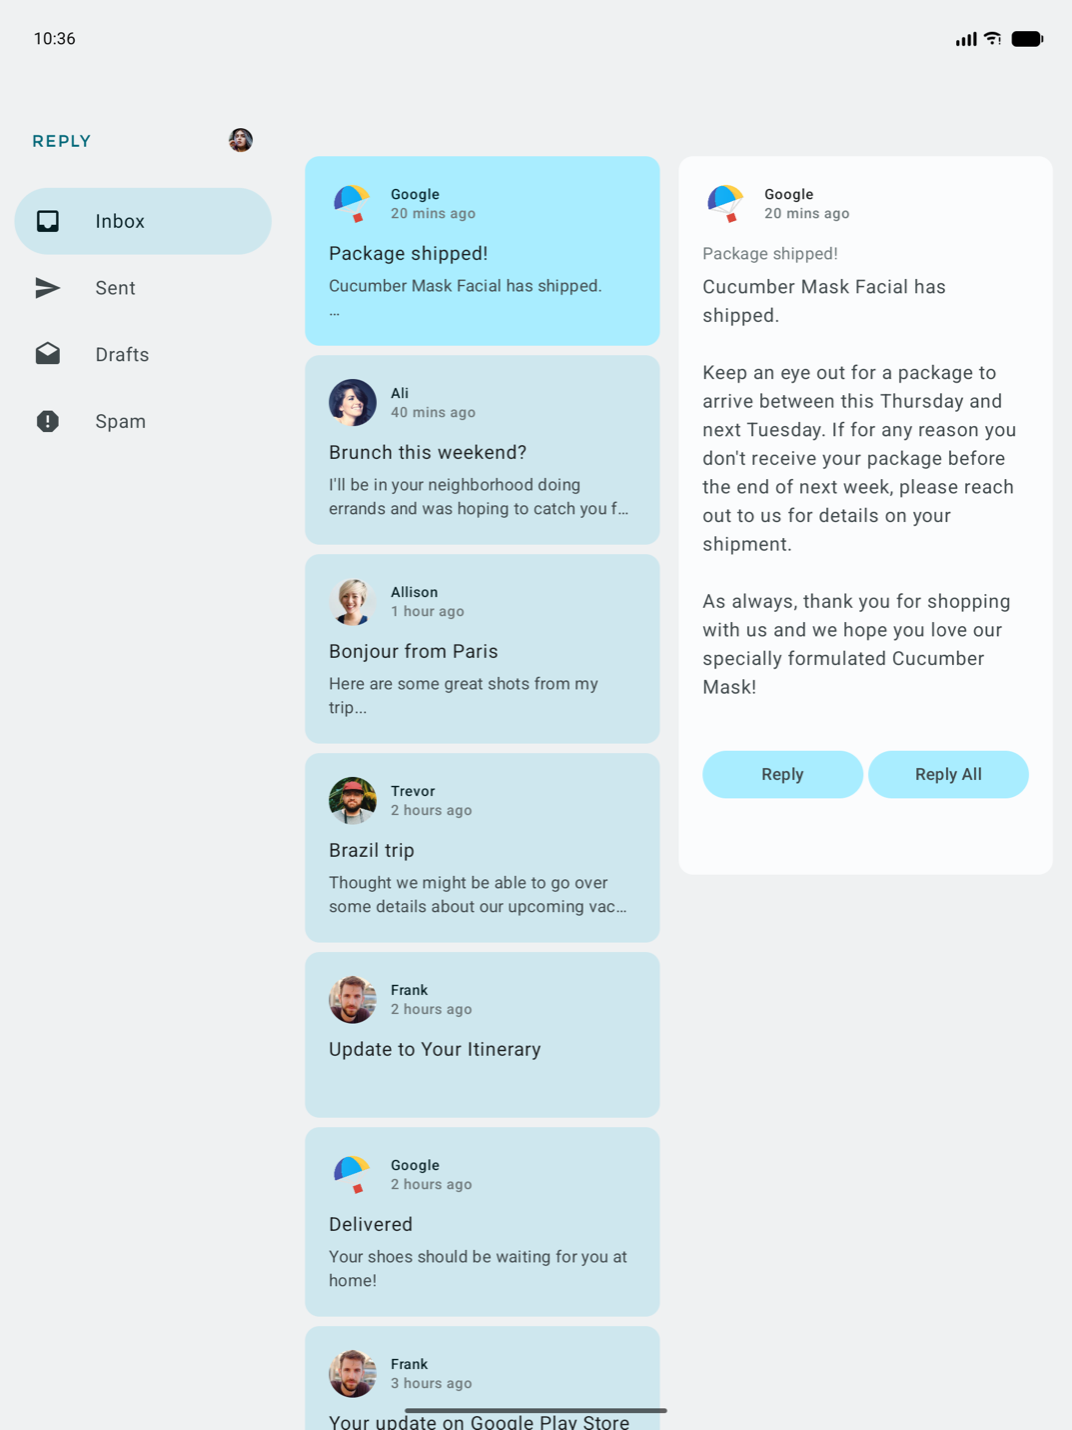
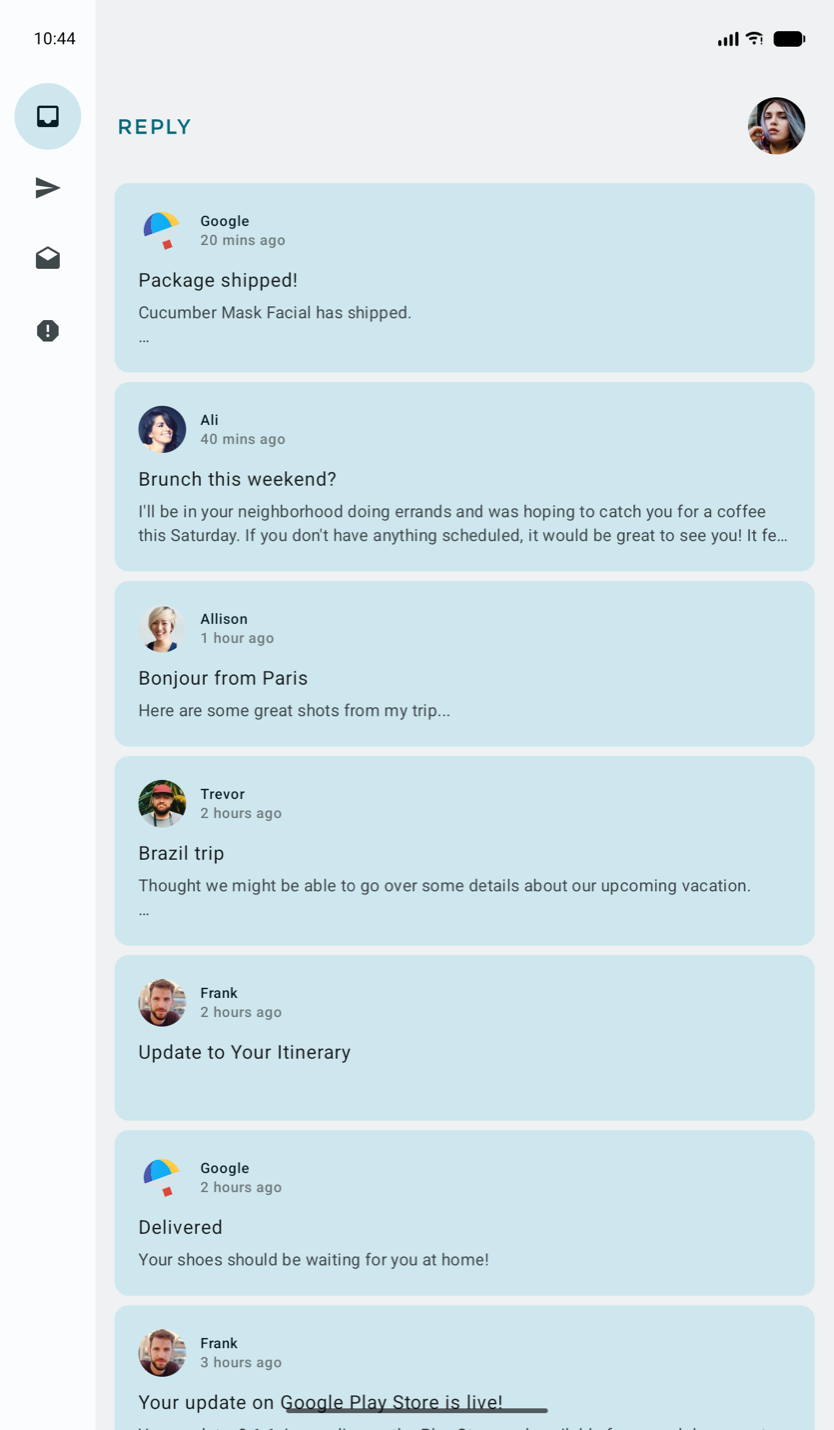
unit 4 pw3 project My City: 8. Test the app with Resizable Emulator (tests, previews, report)

diff --git a/app/src/androidTest/java/com/example/knrtu_mobile_systems/MyCityAppTest.kt b/app/src/androidTest/java/com/example/knrtu_mobile_systems/MyCityAppTest.kt
@@ -1,0 +1,108 @@
+package com.example.knrtu_mobile_systems
+
+import androidx.activity.ComponentActivity
+import androidx.annotation.StringRes
+import androidx.compose.material3.windowsizeclass.WindowWidthSizeClass
+import androidx.compose.ui.platform.LocalContext
+import androidx.compose.ui.test.assertIsDisplayed
+import androidx.compose.ui.test.junit4.createAndroidComposeRule
+import androidx.compose.ui.test.onNodeWithContentDescription
+import androidx.compose.ui.test.onNodeWithTag
+import androidx.compose.ui.test.onNodeWithText
+import androidx.compose.ui.test.performClick
+import androidx.navigation.compose.ComposeNavigator
+import androidx.navigation.testing.TestNavHostController
+import com.example.knrtu_mobile_systems.data.LocalPlacesDataProvider
+import com.example.knrtu_mobile_systems.model.Category
+import com.example.knrtu_mobile_systems.ui.MyCityApp
+import com.example.knrtu_mobile_systems.ui.MyCityScreen
+import org.junit.Assert.assertEquals
+import org.junit.Rule
+import org.junit.Test
+
+class MyCityAppTest {
+
+    @get:Rule
+    val composeTestRule = createAndroidComposeRule<ComponentActivity>()
+
+    private lateinit var navController: TestNavHostController
+
+    private fun setContent(windowSize: WindowWidthSizeClass) {
+        composeTestRule.setContent {
+            navController = TestNavHostController(LocalContext.current).apply {
+                navigatorProvider.addNavigator(ComposeNavigator())
+            }
+            MyCityApp(windowSize = windowSize, navController = navController)
+        }
+    }
+
+    private fun string(@StringRes id: Int) = composeTestRule.activity.getString(id)
+
+    private fun assertCurrentRoute(screen: MyCityScreen) {
+        assertEquals(screen.name, navController.currentBackStackEntry?.destination?.route)
+    }
+
+    @Test
+    fun compactDevice_startsOnCategoriesWithoutBackButton() {
+        setContent(WindowWidthSizeClass.Compact)
+        assertCurrentRoute(MyCityScreen.Categories)
+        composeTestRule.onNodeWithText(string(R.string.app_name)).assertIsDisplayed()
+        composeTestRule.onNodeWithContentDescription(string(R.string.back_button))
+            .assertDoesNotExist()
+    }
+
+    @Test
+    fun compactDevice_navigatesCategoryToPlaceToDetailsAndBack() {
+        setContent(WindowWidthSizeClass.Compact)
+        val place = LocalPlacesDataProvider.getPlaces(Category.Museums).last()
+
+        composeTestRule.onNodeWithText(string(Category.Museums.title)).performClick()
+        assertCurrentRoute(MyCityScreen.Places)
+
+        composeTestRule.onNodeWithText(string(place.name)).performClick()
+        assertCurrentRoute(MyCityScreen.Details)
+        composeTestRule.onNodeWithText(string(place.description)).assertIsDisplayed()
+
+        composeTestRule.onNodeWithContentDescription(string(R.string.back_button)).performClick()
+        assertCurrentRoute(MyCityScreen.Places)
+        composeTestRule.onNodeWithContentDescription(string(R.string.back_button)).performClick()
+        assertCurrentRoute(MyCityScreen.Categories)
+    }
+
+    @Test
+    fun mediumDevice_verifyUsingNavigationRail() {
+        setContent(WindowWidthSizeClass.Medium)
+        composeTestRule.onNodeWithTag(string(R.string.navigation_rail)).assertExists()
+        composeTestRule.onNodeWithTag(string(R.string.navigation_drawer)).assertDoesNotExist()
+    }
+
+    @Test
+    fun mediumDevice_railSelectsCategoryAndShowsItsPlaces() {
+        setContent(WindowWidthSizeClass.Medium)
+        val place = LocalPlacesDataProvider.getPlaces(Category.Theatres).first()
+
+        composeTestRule.onNodeWithContentDescription(string(Category.Theatres.title)).performClick()
+        composeTestRule.onNodeWithText(string(place.name)).assertIsDisplayed()
+
+        composeTestRule.onNodeWithText(string(place.name)).performClick()
+        assertCurrentRoute(MyCityScreen.Details)
+    }
+
+    @Test
+    fun expandedDevice_verifyUsingNavigationDrawerWithDetails() {
+        setContent(WindowWidthSizeClass.Expanded)
+        composeTestRule.onNodeWithTag(string(R.string.navigation_drawer)).assertExists()
+        composeTestRule.onNodeWithTag(string(R.string.navigation_rail)).assertDoesNotExist()
+        composeTestRule.onNodeWithTag(string(R.string.details_screen)).assertExists()
+    }
+
+    @Test
+    fun expandedDevice_clickPlace_showsDetailsWithoutNavigation() {
+        setContent(WindowWidthSizeClass.Expanded)
+        val place = LocalPlacesDataProvider.getPlaces(Category.Sights)[1]
+
+        composeTestRule.onNodeWithText(string(place.name)).performClick()
+        composeTestRule.onNodeWithText(string(place.description)).assertExists()
+        assertCurrentRoute(MyCityScreen.Categories)
+    }
+}

diff --git a/app/src/main/java/com/example/knrtu_mobile_systems/MainActivity.kt b/app/src/main/java/com/example/knrtu_mobile_systems/MainActivity.kt
@@ -6,7 +6,10 @@ import androidx.activity.compose.setContent
 import androidx.activity.enableEdgeToEdge
 import androidx.compose.material3.Surface
 import androidx.compose.material3.windowsizeclass.ExperimentalMaterial3WindowSizeClassApi
+import androidx.compose.material3.windowsizeclass.WindowWidthSizeClass
 import androidx.compose.material3.windowsizeclass.calculateWindowSizeClass
+import androidx.compose.runtime.Composable
+import androidx.compose.ui.tooling.preview.Preview
 import com.example.knrtu_mobile_systems.ui.MyCityApp
 import com.example.knrtu_mobile_systems.ui.theme.MyCityTheme
 
@@ -22,6 +25,36 @@ class MainActivity : ComponentActivity() {
                     MyCityApp(windowSize = windowSize.widthSizeClass)
                 }
             }
+        }
+    }
+}
+
+@Preview(showBackground = true)
+@Composable
+fun MyCityCompactPreview() {
+    MyCityTheme {
+        Surface {
+            MyCityApp(windowSize = WindowWidthSizeClass.Compact)
+        }
+    }
+}
+
+@Preview(showBackground = true, widthDp = 700)
+@Composable
+fun MyCityMediumPreview() {
+    MyCityTheme {
+        Surface {
+            MyCityApp(windowSize = WindowWidthSizeClass.Medium)
+        }
+    }
+}
+
+@Preview(showBackground = true, widthDp = 1000)
+@Composable
+fun MyCityExpandedPreview() {
+    MyCityTheme {
+        Surface {
+            MyCityApp(windowSize = WindowWidthSizeClass.Expanded)
         }
     }
 }

diff --git a/reports/Unit4/Pathway 3/report.md b/reports/Unit4/Pathway 3/report.md
@@ -38,3 +38,31 @@ Expanded: permanent navigation drawer + список и детали
 Expanded: список и детали
 
 ![](sports_expanded.png)
+
+## 4. Project: Create a My City app — «Моя Казань»
+Эскизы и план: [my_city_plan.md](my_city_plan.md).
+
+- **Контент:** 5 категорий (достопримечательности, музеи, парки и набережные, театры, татарская кухня) × 4 места;
+  данные отделены от UI: `model/Category`, `model/Place`, `data/LocalPlacesDataProvider`, строки в `strings_city.xml`.
+- **Состояние:** `MyCityViewModel` + `MyCityUiState` (`StateFlow`, однонаправленный поток данных), unit-тесты `MyCityViewModelTest`.
+- **Навигация:** Jetpack Navigation, маршруты `Categories → Places → Details`, `TopAppBar` с заголовком и кнопкой «Назад».
+- **Адаптивность** (`WindowWidthSizeClass`):
+  Compact — отдельный экран категорий; Medium — `NavigationRail`; Expanded — `PermanentNavigationDrawer`
+  + список и детали рядом, «Назад» закрывает приложение.
+- **Тесты:** `MyCityAppTest` (навигация и раскладки для трёх размеров) — 7/7 на телефоне и на эмуляторе
+  с размером окна 2560×1600 @ 320dpi.
+
+| Compact: категории | Compact: места | Compact: детали |
+|---|---|---|
+| ![](my_city_1_compact_categories.png) | ![](my_city_2_compact_places.png) | ![](my_city_3_compact_details.png) |
+
+| Medium: navigation rail | Medium: детали |
+|---|---|
+| ![](my_city_4_medium_rail.png) | ![](my_city_4b_medium_details.png) |
+
+Expanded: боковое меню + список + детали
+
+![](my_city_5_expanded.png)
+
+## 5. Quiz
+_Скриншот прохождения квиза добавить вручную._
